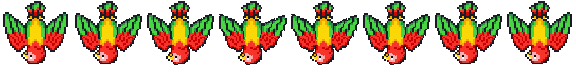
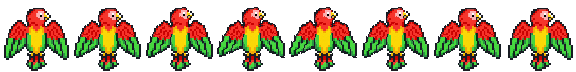
commit

diff --git a/js/enemies/eagle.js b/js/enemies/eagle.js
@@ -9,7 +9,7 @@
 EnemyRegistry.register({
   id:        'eagle',
   sprite:    'assets/enemies/eagle/idle.png',
-  size:      60,
+  size:      72,
   hpPct:     0.65,
   damagePct: 0.25,
   speedMult: 1.8,
@@ -18,6 +18,7 @@ EnemyRegistry.register({
   shoots:    false,
   bulletDamagePct: 0.15,
   bulletSpeed:     4.0,
+  rotateToDirection: true,
   deathColors: ['#dddddd', '#aaaaaa', '#776633'],
 
   onHit(e) {
@@ -49,12 +50,12 @@ EnemyRegistry.register({
     e.spawnDist     = Math.sqrt(dx * dx + dy * dy);
     e.firstShotDist = e.spawnDist * CONFIG.bullet.firstShotDistPct;
 
-    // update rotation
-    const rotMap = { down: 0, left: 90, up: 180, right: 270 };
+    // phase 2: change sprite + remove rotation
     if (e.el) {
       e.el.style.left = e.x + 'px';
       e.el.style.top  = e.y + 'px';
-      e.el.style.transform = `translate(-50%,-50%) rotate(${rotMap[newDir]}deg)`;
+      e.el.style.backgroundImage = 'url(assets/enemies/eagle/idle2.png)';
+      e.el.style.transform = 'translate(-50%,-50%)';
     }
   },
 

diff --git a/js/systems/spawn.js b/js/systems/spawn.js
@@ -110,6 +110,11 @@ if (enemy.def.sprite) {
 
 // rotazione in base alla direzione
 el.style.transform = 'translate(-50%,-50%)';
+// rotate enemies that need direction-based rotation (e.g. eagle dive)
+if (enemy.def.rotateToDirection) {
+  const rotMap = { down: 0, left: 90, up: 180, right: 270 };
+  el.style.transform = `translate(-50%,-50%) rotate(${rotMap[dir]}deg)`;
+}
 
  if (!enemy.def.noHpBar) {
     const hpWrap = document.createElement('div');

diff --git a/js/enemies/frog.js b/js/enemies/frog.js
@@ -102,7 +102,7 @@ function _spawnFrogSpit(enemy) {
   const spitDef = {
     id:        '_frog_spit',
     sprite:    'assets/enemies/bullet_rock/idle.png',
-    size:      12,
+    size:      22,
     hpPct:     0.01,
     damagePct: 0.15,
     speedMult: 2.0,

diff --git a/js/enemies/slimeLava.js b/js/enemies/slimeLava.js
@@ -118,7 +118,7 @@ function _spawnLavaSpit(enemy) {
   const spitDef = {
     id:        '_lava_spit',
     sprite:    'assets/enemies/bullet_rock/idle.png',
-    size:      14,
+    size:      22,
     hpPct:     0.01,
     damagePct: 0.20,
     speedMult: 2.5,

diff --git a/css/arena.css b/css/arena.css
@@ -14,6 +14,8 @@
   background:transparent;border:none;
   display:flex;align-items:center;justify-content:center;
   font-size:28px;z-index:10;
+  will-change:transform;
+  image-rendering:pixelated;
 }
 @keyframes playerIdle{
   from{background-position-x:0;}
